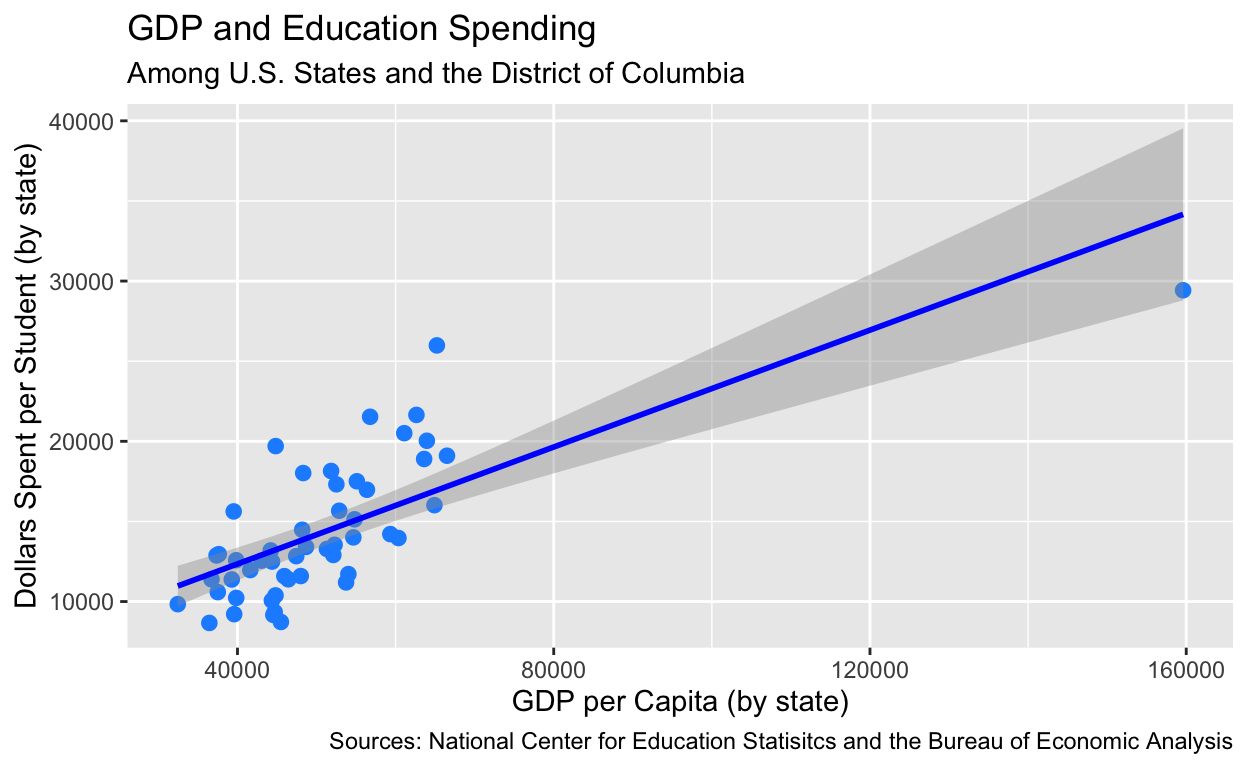
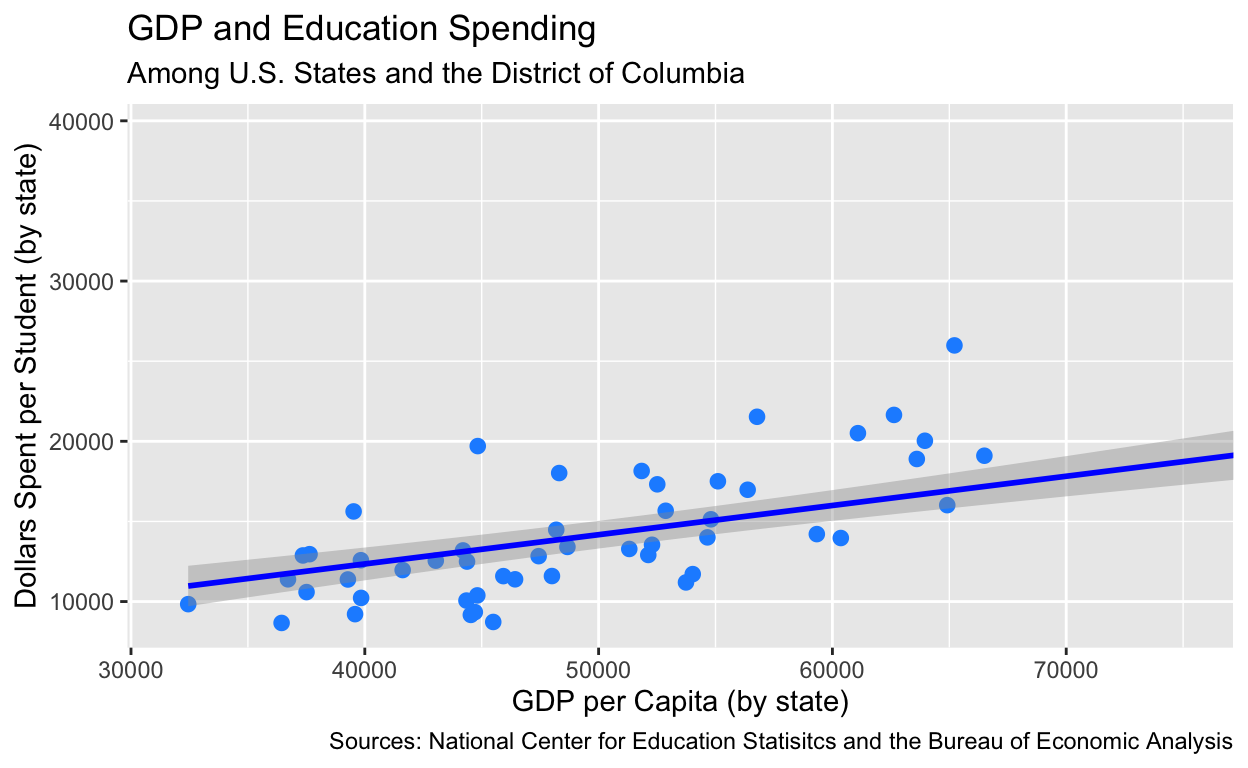
ms4

diff --git a/index.html b/index.html
@@ -1652,6 +1652,7 @@ code span.wa { color: #5e5e5e; font-style: italic; } /* Warning */
 <span>           y <span class='op'>=</span> <span class='va'>`Total Revenues (TR) per Pupil (MEMBR) [State Finance] 2016-17`</span><span class='op'>)</span><span class='op'>)</span> <span class='op'>+</span></span>
 <span>  <span class='fu'><a href='https://ggplot2.tidyverse.org/reference/geom_point.html'>geom_point</a></span><span class='op'>(</span>size <span class='op'>=</span> <span class='fl'>2.25</span>, color <span class='op'>=</span> <span class='st'>"dodgerblue"</span><span class='op'>)</span> <span class='op'>+</span></span>
 <span>  <span class='fu'><a href='https://ggplot2.tidyverse.org/reference/geom_smooth.html'>geom_smooth</a></span><span class='op'>(</span>method <span class='op'>=</span> <span class='st'>"lm"</span>, color <span class='op'>=</span> <span class='st'>"blue"</span><span class='op'>)</span> <span class='op'>+</span></span>
+<span>  <span class='fu'><a href='https://ggplot2.tidyverse.org/reference/coord_cartesian.html'>coord_cartesian</a></span><span class='op'>(</span>xlim <span class='op'>=</span> <span class='fu'><a href='https://rdrr.io/r/base/c.html'>c</a></span><span class='op'>(</span><span class='fl'>32000</span>, <span class='fl'>75000</span><span class='op'>)</span><span class='op'>)</span> <span class='op'>+</span></span>
 <span>  <span class='fu'><a href='https://ggplot2.tidyverse.org/reference/labs.html'>labs</a></span><span class='op'>(</span>x <span class='op'>=</span> <span class='st'>"GDP per Capita (by state)"</span>,</span>
 <span>       y <span class='op'>=</span> <span class='st'>"Dollars Spent per Student (by state)"</span>,</span>
 <span>       title <span class='op'>=</span> <span class='st'>"GDP and Education Spending"</span>,</span>
